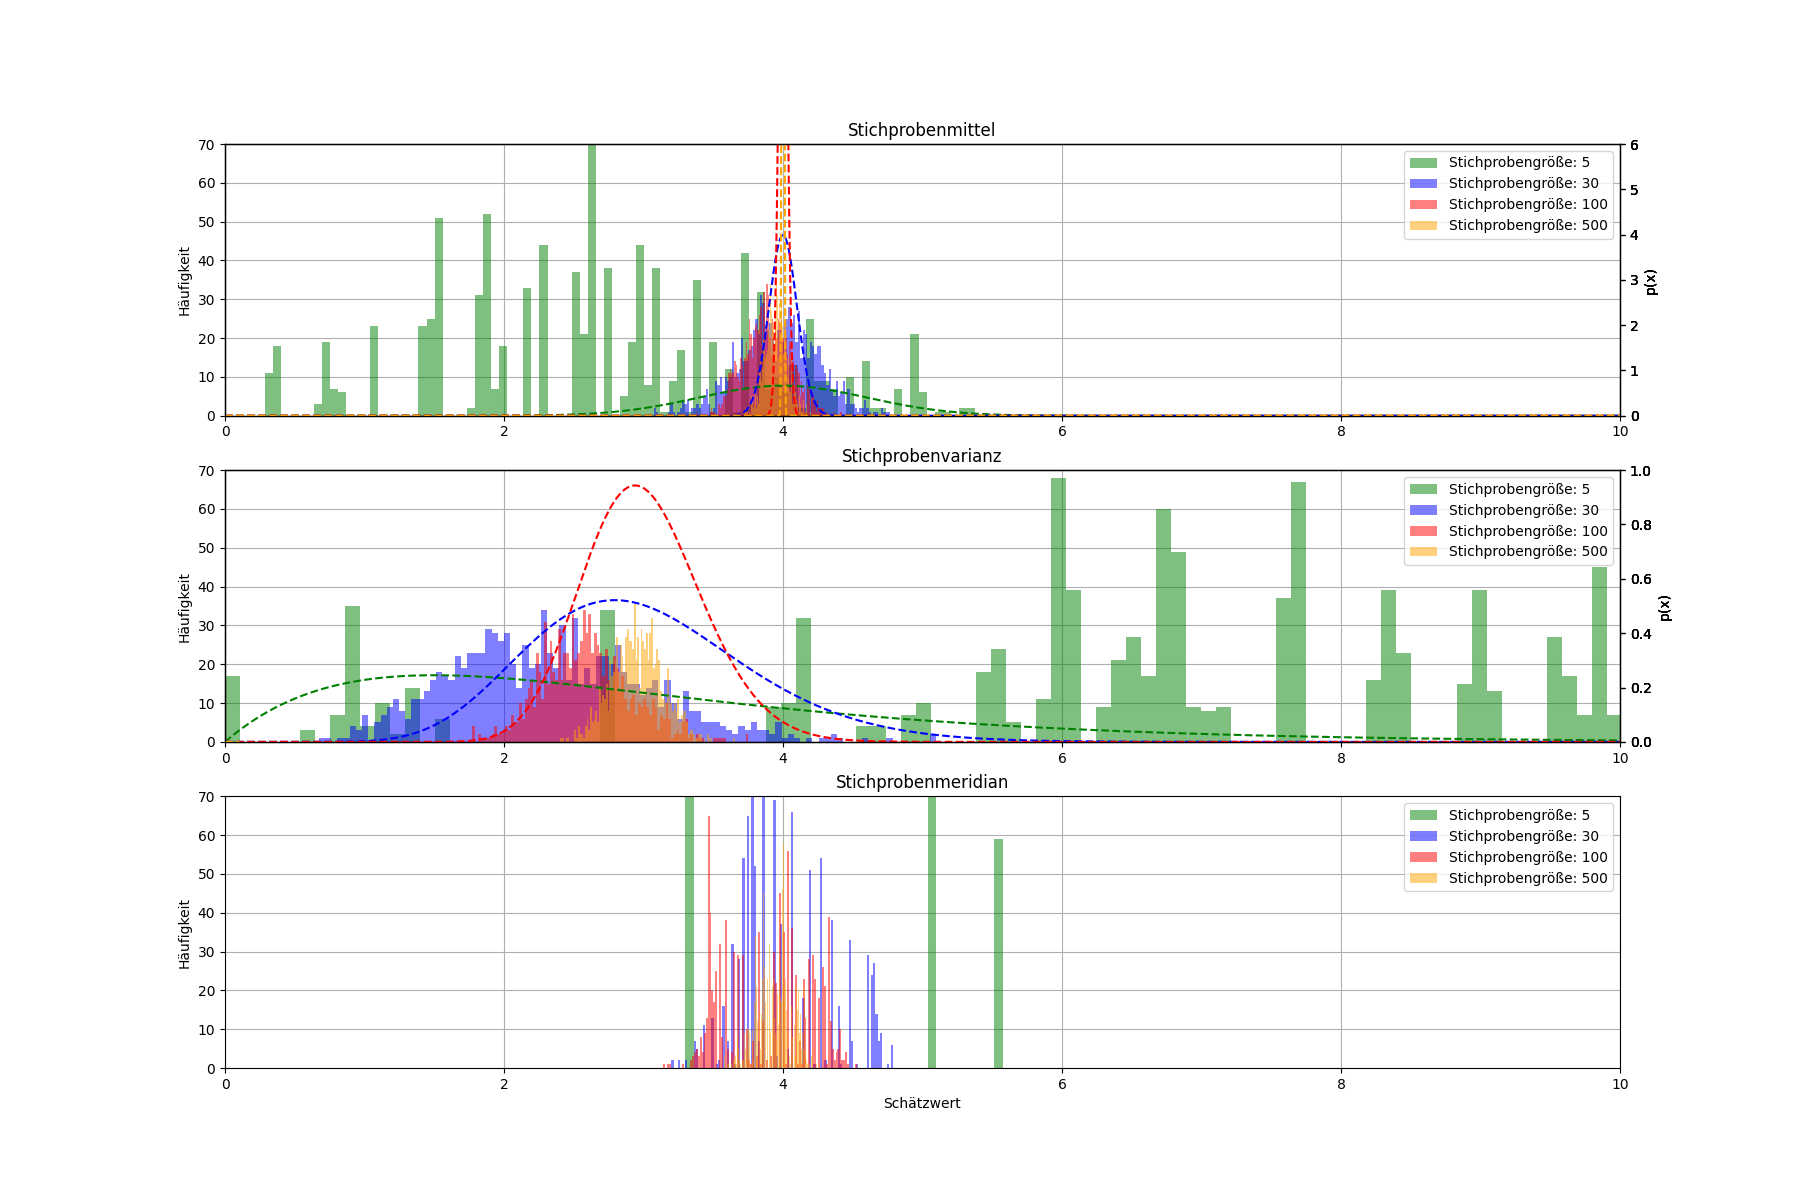
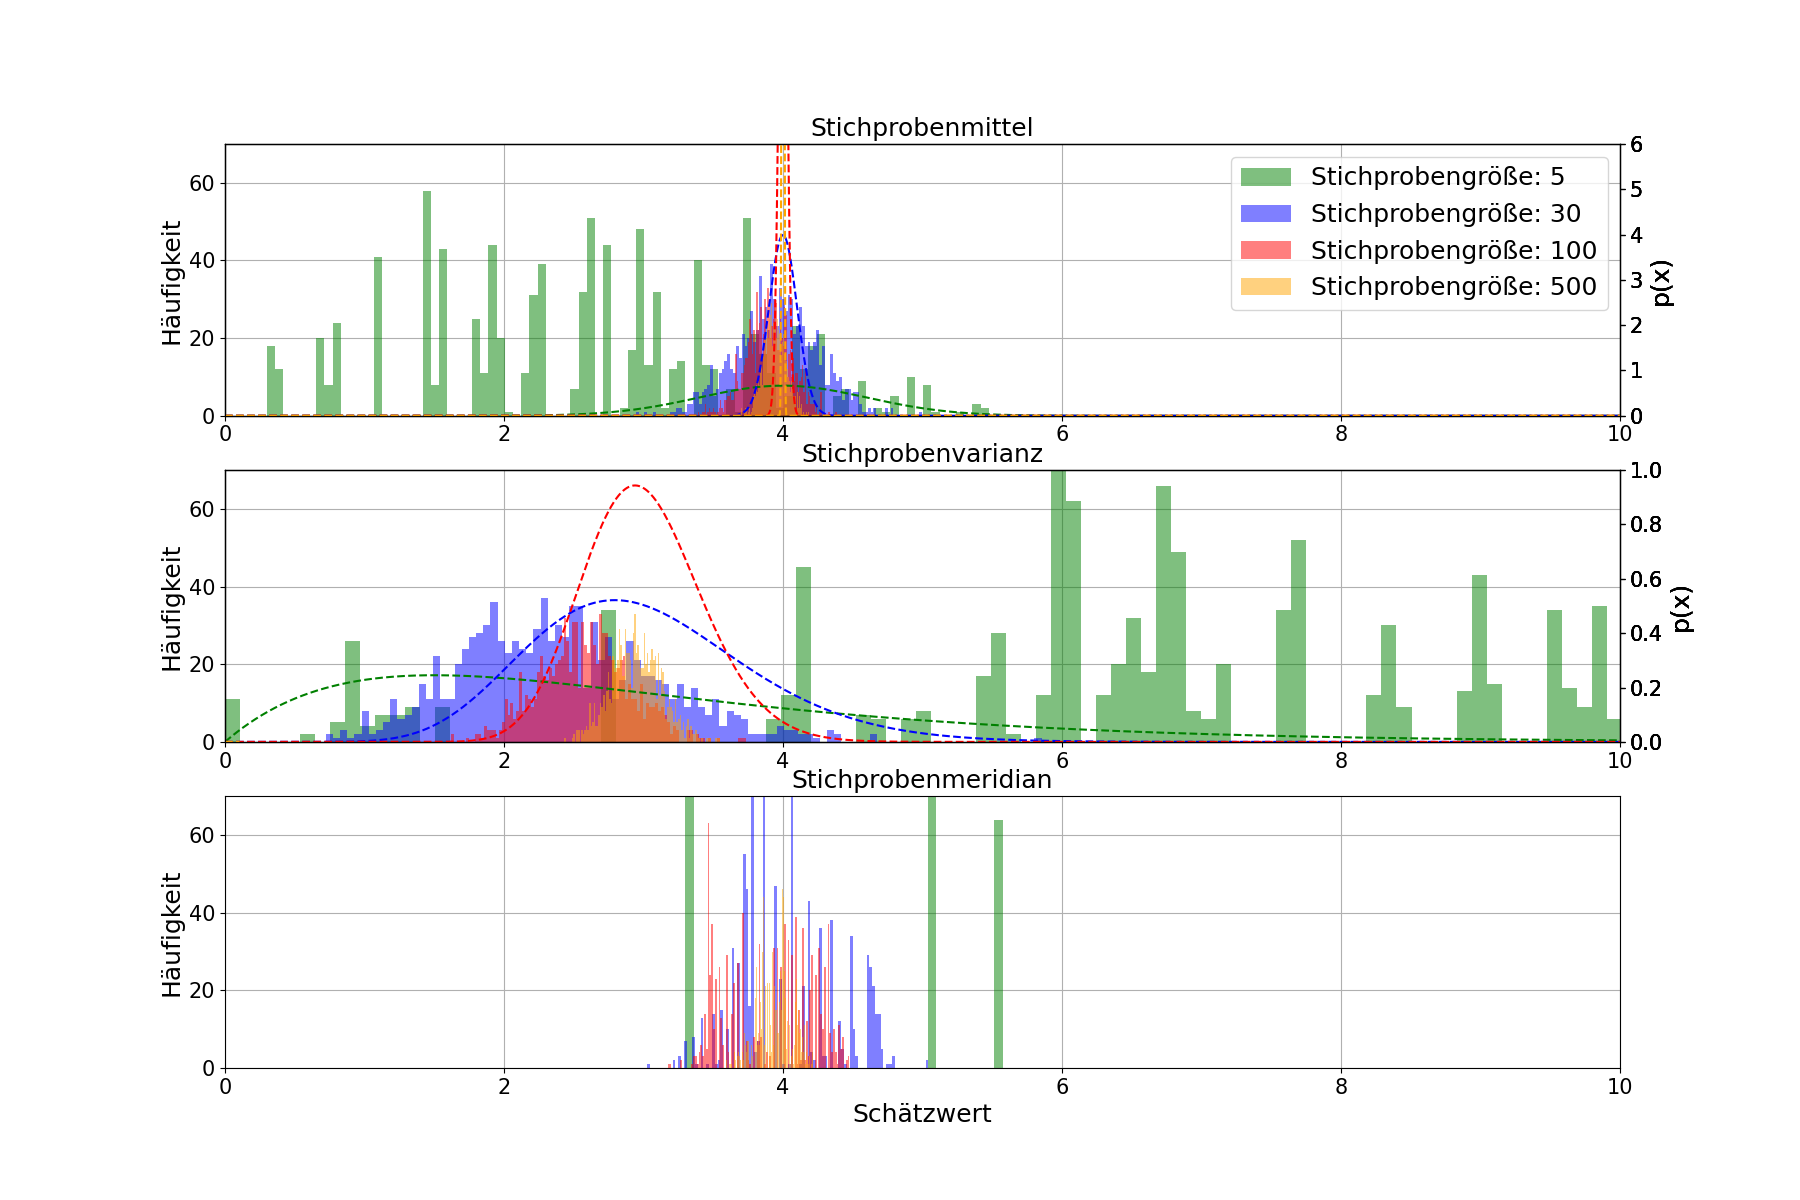
changes

diff --git a/Uebung2/Aufgabe1.py b/Uebung2/Aufgabe1.py
@@ -1,4 +1,4 @@
-# Statistische Muserekennung WS 2023
+# Statistische Musterekennung WS 2023
 # Benjamin Stifter, 01618881
 # Olivia Panzenböck, 11775488
 
@@ -14,13 +14,14 @@ import warnings
 from scipy.stats import chi2
 
 
-
 # Aufgabe 1
 
 # suppress warnings
 warnings.filterwarnings('ignore')
 
 def plot_rand(name, data, sizes_samp, colors, var):
+    "Funktion erzeugt Histogramm Plot und Dichtefunktion"
+
     plt.figure(figsize=(18, 12))
     x_values = np.linspace(0, 10, 10000)
     for i, estimator in enumerate(['Stichprobenmittel', 'Stichprobenvarianz', 'Stichprobenmeridian'], start=1):
@@ -43,8 +44,9 @@ def plot_rand(name, data, sizes_samp, colors, var):
                 # p_x=norm.pdf(x_values, loc=mu, scale=var / size)
 
                 ax2.plot(x_values, p_x, color=colors[j], linestyle='--')
-                ax2.set_ylabel('p(x)')
-                ax2.set_ylim([0, 6])
+                ax2.set_ylabel('p(x)',fontsize=18)
+                ax2.tick_params(axis='both', labelsize=15)
+                ax2.set_ylim([0, 1])
 
             elif estimator == 'Stichprobenvarianz':
                 ax2 = ax.twinx()
@@ -57,16 +59,19 @@ def plot_rand(name, data, sizes_samp, colors, var):
                 p_x = (a * np.power(x_values2, (n / 2 - 1)) * np.exp(-x_values2 / 2)) / (var / n)
 
                 ax2.plot(x_values, p_x, color=colors[j], linestyle='--')
-                ax2.set_ylabel('p(x)')
+                ax2.set_ylabel('p(x)',fontsize=18)
+                ax2.tick_params(axis='both', labelsize=15)
                 ax2.set_ylim([0, 1])
             j = j + 1
-            ax.set_title(f'{estimator}')
+            ax.set_title(f'{estimator}',fontsize=18)
             if estimator == "Stichprobenmeridian":
-                ax.set_xlabel('Schätzwert')
-            ax.set_ylabel('Häufigkeit')
+                ax.set_xlabel('Schätzwert',fontsize=18)
+            if estimator == "Stichprobenmittel":
+                ax.legend(fontsize=18)
+            ax.set_ylabel('Häufigkeit',fontsize=18)
             ax.set_xlim([0, 10])
             ax.set_ylim([0, 70])
-            ax.legend()
+            ax.tick_params(axis='both', labelsize=15)
             plt.savefig('plots/Aufgabe1/emp_ver_' + name +'.png', format='png')
 
         # --------------------------------------------------------------------------------------------------------------------
@@ -83,6 +88,8 @@ def plot_rand(name, data, sizes_samp, colors, var):
     plt.show()
 
 def plot_boot(size, df, mu, var, number_str):
+    "Funktion erzeugt Histogramm Plot und Dichtefunktion"
+
     plt.figure(figsize=(18, 12))
     x_values = np.linspace(0, 10, 1000)
 
@@ -104,7 +111,8 @@ def plot_boot(size, df, mu, var, number_str):
             # p_x=norm.pdf(x_values, loc=mu, scale=var / size)
 
             ax2.plot(x_values, p_x, color=colors[j], linestyle='--')
-            ax2.set_ylabel('p(x)')
+            ax2.set_ylabel('p(x)',fontsize=18)
+            ax2.tick_params(axis='both', labelsize=15)
             ax2.set_ylim([0, 6])
 
         elif estimator == 'Stichprobenvarianz':
@@ -118,16 +126,19 @@ def plot_boot(size, df, mu, var, number_str):
             p_x = (a * np.power(x_values2, (n / 2 - 1)) * np.exp(-x_values2 / 2)) / (var / n)
 
             ax2.plot(x_values, p_x, color=colors[j], linestyle='--')
-            ax2.set_ylabel('p(x)')
+            ax2.set_ylabel('p(x)',fontsize=18)
+            ax2.tick_params(axis='both', labelsize=15)
             ax2.set_ylim([0, 1])
 
-        ax.set_title(f'{estimator}')
+        ax.set_title(f'{estimator}',fontsize=18)
         if estimator == "Stichprobenmeridian":
-            ax.set_xlabel('Schätzwert')
-        ax.set_ylabel('Häufigkeit')
+            ax.set_xlabel('Schätzwert',fontsize=18)
+        if estimator == "Stichprobenmittel":
+            ax.legend(fontsize=18)
+        ax.set_ylabel('Häufigkeit',fontsize=18)
         ax.set_xlim([0, 10])
         ax.set_ylim([0, 70])
-        ax.legend()
+        ax.tick_params(axis='both', labelsize=15)
         plt.savefig('plots/Aufgabe1/bootstrap_' + str(size) +'.png', format='png')
 
     plt.tight_layout(rect=[0, 0, 1, 0.96])
@@ -135,21 +146,21 @@ def plot_boot(size, df, mu, var, number_str):
 
 
 def calculate_statistics(samples,t):
+    "Funktion berechnet den Mittelwert, den Median und die Varianz"
+
     means = np.sum(samples, axis=1) / np.size(samples, axis=1)
     var_sums = (samples - means[:, np.newaxis]) ** 2
     if t == 0:
-        vars = np.sum(var_sums, axis=1) / np.size(var_sums, axis=1) # wenn wahres Mittel bekannt
+        vars = np.sum(var_sums, axis=1) / np.size(var_sums, axis=1) # wenn wahres Mittel bekannt ist
     elif t == 1:
-        vars = np.sum(var_sums, axis=1) / (np.size(var_sums, axis=1)-1) ## wenn wahres Mittel nicht bekannt
+        vars = np.sum(var_sums, axis=1) / (np.size(var_sums, axis=1)-1) # wenn wahres Mittel nicht bekannt ist
     else:
         print('Nur 0 oder 1 möglich!')
 
     medians = np.median(samples, axis=1)
     return means, vars, medians
 
-# Seed für die Reproduzierbarkeit der Zufallszahlen setzen
-
-
+# Reproduzierbarkeit der Zufallszahlen
 np.random.seed(234) 
 
 

diff --git a/Uebung2/Aufgabe3.py b/Uebung2/Aufgabe3.py
@@ -1,4 +1,4 @@
-# Statistische Muserekennung WS 2023
+# Statistische Musterekennung WS 2023
 # Benjamin Stifter, 01618881
 # Olivia Panzenböck, 11775488
 
@@ -44,9 +44,11 @@ plt.plot(x_values, VW2, color='blue', label=r'$H_0=0.99, H_1=0.01$')
 plt.title('Positiver Vorhersagewert als Funktion der Entscheidungsgrenze', fontsize=24)
 plt.ylabel(r'$p(H_1|+)$', fontsize=20)
 plt.xlabel(r'$x^*$', fontsize=20)
+plt.xticks(fontsize=15)
+plt.yticks(fontsize=15)
 plt.legend(fontsize=20)
 plt.grid(True)
-plt.savefig('plots/Aufgabe3/a.png', format='png')
+plt.savefig('plots/Aufgabe3/a.eps', format='eps')
 plt.show()
 
 # Aufgabe b)
@@ -95,8 +97,10 @@ plt.title(r'Wahrscheinlichkeitsfuntion und Posterioris von $H_0=0.9$ und $H_1=0.
 plt.grid(True)
 plt.ylabel(r'$p(x|H_i)$', fontsize=20)
 plt.xlabel(r'$x$', fontsize=20)
+plt.xticks(fontsize=15)
+plt.yticks(fontsize=15)
 plt.legend(fontsize=20)
-plt.savefig('plots/Aufgabe3/b_1.png', format='png')
+plt.savefig('plots/Aufgabe3/b_1.eps', format='eps')
 plt.show()
 
 # Wahrscheinlichkeitsfuntion und Posterioris (H0 = 0.99, H1 = 0.01)
@@ -112,8 +116,10 @@ plt.title(r'Wahrscheinlichkeitsfuntion und Posterioris von $H_0=0.99$ und $H_1=0
 plt.grid(True)
 plt.ylabel(r'$p(x|H_i)$', fontsize=20)
 plt.xlabel(r'$x$', fontsize=20)
+plt.xticks(fontsize=15)
+plt.yticks(fontsize=15)
 plt.legend(fontsize=20)
-plt.savefig('plots/Aufgabe3/b_2.png', format='png')
+plt.savefig('plots/Aufgabe3/b_2.eps', format='eps')
 plt.show()
 
 # Plot beider Posterioris und Entscheidungsgrenzen
@@ -128,10 +134,12 @@ plt.title('Posteriors beider Prävalenzpaare mit Entscheidungsgrenzen', fontsize
 plt.grid(True)
 plt.ylabel(r'$p(H_i|x)$', fontsize=20)
 plt.xlabel(r'$x$', fontsize=20)
+plt.xticks(fontsize=15)
+plt.yticks(fontsize=15)
 plt.legend(fontsize=20)
 idx1 = np.argwhere(np.diff(np.sign(np.array(p_H0_x_9) - np.array(p_H1_x_9)))).flatten()
 idx2 = np.argwhere(np.diff(np.sign(np.array(p_H0_x_99) - np.array(p_H1_x_99)))).flatten()
-plt.savefig('plots/Aufgabe3/b_3.png', format='png')
+plt.savefig('plots/Aufgabe3/b_3.eps', format='eps')
 plt.show()
 
 # Aufgabe c)
@@ -141,8 +149,10 @@ plt.plot(False_P, True_P, color='green')
 plt.title('ROC-Kruve (receiver operating characteristic)', fontsize=24)
 plt.xlabel(r'$\alpha$', fontsize=20)
 plt.ylabel(r'$1 - \beta$', fontsize=20)
+plt.xticks(fontsize=15)
+plt.yticks(fontsize=15)
 plt.grid(True)
-plt.savefig('plots/Aufgabe3/c.png', format='png')
+plt.savefig('plots/Aufgabe3/c.eps', format='eps')
 plt.show()
 
 

diff --git a/Uebung2/Aufgabe2.py b/Uebung2/Aufgabe2.py
@@ -137,7 +137,7 @@ plt.xlabel(r'$X$')
 plt.xlim([-20, 15])
 plt.ylabel(r'$p(x|\omega_i)$')
 plt.legend()
-plt.savefig('plots/Aufgabe2/a2_df.png', format='png')
+plt.savefig('plots/Aufgabe2/a2_df.eps', format='eps')
 plt.show()
 
 # Finden des Schnittpunkts der beiden Kurven
@@ -160,7 +160,7 @@ plt.xlim([-20, 15])
 plt.ylabel(r'$p(\omega_i|x)$')
 plt.legend()
 plt.ylim([-0.1, 1.1])
-plt.savefig('plots/Aufgabe2/a2_posterior.png', format='png')
+plt.savefig('plots/Aufgabe2/a2_posterior.eps', format='eps')
 plt.show()
 
 # Plot für Randverteilung von X
@@ -172,5 +172,5 @@ plt.xlabel(r'$X$')
 plt.xlim([-20, 15])
 plt.ylabel(r'$p(x)$')
 plt.legend()
-plt.savefig('plots/Aufgabe2/a2_evidence.png', format='png')
+plt.savefig('plots/Aufgabe2/a2_evidence.eps', format='eps')
 plt.show()
